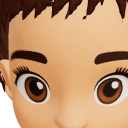
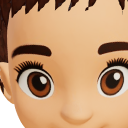
3D-forsøg: vifte af vipper og større iris i store øjne
Vipper: tolv vipper langs hele låget, fra næsen ud til hjørnet. Store: iris fylder op til den sorte streg og ned til den nederste kant, og det hvide omkring er rent.

diff --git a/3d-forsoeg/index.html b/3d-forsoeg/index.html
@@ -313,7 +313,7 @@ function drawBrows(o) {
 // themselves, the skin round it stretched to meet; Glade and Blink: the eye painted over in the skin and a shut lid
 // drawn - an arch up, or for Blink one eye's lid down; Vipper: three lashes at each eye's outer corner; Stjerner,
 // Hjerter: the iris a star or a heart, in the eye colour, on white)
-const EYES = [['oejne-naturlige', 'Naturlige'], ['oejne-store', 'Store', { big: 1.25 }], ['oejne-glad', 'Glade', { shut: 'up' }],
+const EYES = [['oejne-naturlige', 'Naturlige'], ['oejne-store', 'Store', { big: 1.25, iris2: 1.2 }], ['oejne-glad', 'Glade', { shut: 'up' }],
   ['oejne-blink', 'Blink', { shut: 'down', one: true }], ['oejne-vipper', 'Vipper', { lashes: true }],
   ['oejne-stjerne', 'Stjerner', { iris: 'star' }], ['oejne-hjerte', 'Hjerter', { iris: 'heart' }]];
 let eyesNow = 'oejne-naturlige';
@@ -378,45 +378,50 @@ function drawEyes(o) {
   // (the distance from a point to a stroke from a to b, and how far along it)
   const seg = (x, y, ax, ay, bx, by) => { const vx = bx - ax, vy = by - ay, t = Math.max(0, Math.min(1, ((x - ax) * vx + (y - ay) * vy) / (vx * vx + vy * vy))); return [Math.hypot(x - ax - t * vx, y - ay - t * vy), t]; };
   let copy = null; if (opts.big) { copy = new Uint8ClampedArray(T.length / 2); for (let j = 0; j < T.length; j += 6) copy.set(o.subarray(T[j] * 4, T[j] * 4 + 3), j / 2); }
+  // (the eye as it was, at a spot seen from the front: the four squares round it blended by how near it is to each -
+  // taken from one alone, its edges were jagged. Sharp: each square sorted as dark, the eye's white or the rest (skin,
+  // iris), and where two kinds meet the one with more weight wins, with a narrow soft edge - blown up, the soft outline
+  // was ragged)
+  const sample = (E, sx, sy, sharp) => {
+    const fx = (sx - E.gx) / E.cell - .5, fy = (sy - E.gy) / E.cell - .5, gx = Math.floor(fx), gy = Math.floor(fy), c = [0, 0, 0], cs = [[0, 0, 0], [0, 0, 0], [0, 0, 0]], ws = [0, 0, 0];
+    let wt = 0;
+    for (const [ax, ay] of [[0, 0], [1, 0], [0, 1], [1, 1]]) { const X2 = gx + ax, Y2 = gy + ay; if (X2 < 0 || Y2 < 0 || X2 >= E.gw || Y2 >= E.gh) continue;
+      const z = E.grid[Y2 * E.gw + X2]; if (z < 0) continue; const wq = (ax ? fx - gx : 1 - fx + gx) * (ay ? fy - gy : 1 - fy + gy), q = copy.subarray(z * 3, z * 3 + 3);
+      const kind = .3 * q[0] + .59 * q[1] + .11 * q[2] < 110 ? 0 : Math.min(q[0], q[1], q[2]) > 195 ? 1 : 2;
+      for (let m = 0; m < 3; m++) { c[m] += q[m] * wq; cs[kind][m] += q[m] * wq; } wt += wq; ws[kind] += wq; }
+    if (!(wt > 0)) return null; const kinds = [0, 1, 2].filter(k => ws[k] > 0), out = [0, 0, 0];
+    if (sharp && kinds.length === 2) { const [k1, k2] = kinds, a = Math.max(0, Math.min(1, (ws[k1] / wt - .5) / .12 + .5));
+      for (let m = 0; m < 3; m++) out[m] = cs[k1][m] / ws[k1] * a + cs[k2][m] / ws[k2] * (1 - a); }
+    else for (let m = 0; m < 3; m++) out[m] = c[m] / wt;
+    return { r: out[0] / 255, g: out[1] / 255, b: out[2] / 255 }; };
   for (let j = 0; j < T.length; j += 6) { const p = T[j], X = T[j + 1], Y = T[j + 2], E = S.eyes[T[j + 3]], k = T[j + 4], open = T[j + 5], i = p * 4;
     const dx = X - E.cx, dy = Y - E.cy, u = Math.min(1, Math.abs(dx) / E.ew);
     if (opts.big) { const rr = Math.hypot(dx / E.ew, dy / E.eh); if (!rr || rr > 1.7) continue;
       // (inside, everything a quarter bigger; from 1.375 out to 1.7 squeezed back, so it meets the face round it)
       const f = rr < 1.375 ? rr / opts.big : 1.1 + (rr - 1.375) * .6 / .325, sx = E.cx + dx * f / rr, sy = E.cy + dy * f / rr;
-      // (the four squares round that spot, blended by how near it is to each: taken from one alone, its edges were jagged)
-      // (outside the iris's middle - the iris's dark ring and the eye's black outline against the white and the skin - each
-      // square sorted as dark or light and the two blended sharply, at half and half: blown up, those edges were ragged)
-      // (sorted three ways - dark, the eye's white, and the rest: the skin, the iris - so the white's edge against the
-      // skin is sharp too)
-      const fx = (sx - E.gx) / E.cell - .5, fy = (sy - E.gy) / E.cell - .5, gx = Math.floor(fx), gy = Math.floor(fy), c = [0, 0, 0], cs = [[0, 0, 0], [0, 0, 0], [0, 0, 0]], ws = [0, 0, 0];
-      let wt = 0; const rim = Math.hypot(sx - E.ix, sy - E.iy) > .8 * E.r;
-      for (const [ax, ay] of [[0, 0], [1, 0], [0, 1], [1, 1]]) { const X2 = gx + ax, Y2 = gy + ay; if (X2 < 0 || Y2 < 0 || X2 >= E.gw || Y2 >= E.gh) continue;
-        const z = E.grid[Y2 * E.gw + X2]; if (z < 0) continue; const wq = (ax ? fx - gx : 1 - fx + gx) * (ay ? fy - gy : 1 - fy + gy), q = copy.subarray(z * 3, z * 3 + 3);
-        const kind = .3 * q[0] + .59 * q[1] + .11 * q[2] < 110 ? 0 : Math.min(q[0], q[1], q[2]) > 195 ? 1 : 2;
-        for (let m = 0; m < 3; m++) { c[m] += q[m] * wq; cs[kind][m] += q[m] * wq; } wt += wq; ws[kind] += wq; }
-      if (!(wt > 0)) continue;
-      // (where two kinds meet, the one with more of the four's weight wins, with a narrow soft edge between)
-      const kinds = [0, 1, 2].filter(k => ws[k] > 0);
-      if (rim && kinds.length === 2) { const [k1, k2] = kinds, a = Math.max(0, Math.min(1, (ws[k1] / wt - .5) / .12 + .5));
-        for (let m = 0; m < 3; m++) o[i + m] = cs[k1][m] / ws[k1] * a + cs[k2][m] / ws[k2] * (1 - a); }
-      else for (let m = 0; m < 3; m++) o[i + m] = c[m] / wt;
-      // (the iris's dark ring is ragged in the picture itself, which a bigger eye showed: drawn anew as a clean circle, and
-      // the white round it - inside the eye's opening, clear of its outline - made plain white)
-      const ds = Math.hypot(sx - E.ix, sy - E.iy) / E.R, re = Math.hypot((sx - E.cx) / E.ew, (sy - E.cy) / E.eh), sm = v => Math.max(0, Math.min(1, v / .03 + .5));
-      if (re < 1 && ds > .75 && ds < 1.6) { const irisC = tex.colours[PARTS.eyes] || E.colour, ringC = { r: dark.r * .7 + irisC.r * .3, g: dark.g * .7 + irisC.g * .3, b: dark.b * .7 + irisC.b * .3 };
-        put(i, ringC, 1, sm(ds - .86) * sm(1 - ds)); put(i, E.white, 1, sm(ds - 1) * sm(.9 - re) * sm(1.5 - ds)); }
+      const got = sample(E, sx, sy, Math.hypot(sx - E.ix, sy - E.iy) > .8 * E.r); if (!got) continue; o[i] = got.r * 255; o[i + 1] = got.g * 255; o[i + 2] = got.b * 255;
+      // (inside the eye's opening, clear of its outline: the iris a fifth bigger again - up to the white's black line above
+      // it - taken from the iris itself, its dark ring drawn anew as a clean circle - in the picture it is ragged, which a
+      // bigger eye showed - and the white round it made plain white, no flecks left)
+      const re = Math.hypot((sx - E.cx) / E.ew, (sy - E.cy) / E.eh), sm = v => Math.max(0, Math.min(1, v / .03 + .5));
+      if (re < 1.02) { const g = opts.big * opts.iris2, icx = E.cx + (E.ix - E.cx) * opts.big, icy = E.cy + (E.iy - E.cy) * opts.big, dI = Math.hypot(X - icx, Y - icy) / (E.R * g);
+        const keep = sm(.99 - re); if (dI < 1.6 && keep > 0) {
+          if (dI < 1.05) { const c = sample(E, E.ix + (X - icx) / g, E.iy + (Y - icy) / g, false); if (c) put(i, c, 1, keep * sm(1 - dI)); }
+          const irisC = tex.colours[PARTS.eyes] || E.colour, ringC = { r: dark.r * .7 + irisC.r * .3, g: dark.g * .7 + irisC.g * .3, b: dark.b * .7 + irisC.b * .3 };
+          put(i, ringC, 1, keep * sm(dI - .88) * sm(1 - dI)); put(i, E.white, 1, keep * sm(dI - 1) * sm(1.6 - dI)); } }
       continue; }
     if (opts.shut && (!opts.one || E.side > 0)) {
       const rr = Math.hypot(dx / (E.ew * 1.2), dy / (E.eh * 1.45)); if (rr < 1.25) put(i, skin, k, Math.min(1, (1.25 - rr) / .2));
       const yc = opts.shut === 'up' ? -.3 * E.eh + .75 * E.eh * (1 - u * u) : .1 * E.eh - .55 * E.eh * (1 - u * u);
       put(i, dark, 1, cov(.024 * (1 - .4 * u * u) - Math.hypot(dy - yc, Math.max(0, Math.abs(dx) - E.ew)))); continue; }
-    // (proper lashes: seven from the upper lid's black line - well above the white's top there - curling outwards, longer
-    // and more sideways towards the outer corner, thick at the root; and the lid's line drawn bolder over its outer half)
+    // (proper lashes: twelve along the upper lid's black line - well above the white's top there - fanning out from the
+    // middle: short and leaning in towards the nose, longer and more sideways towards the outer corner, curling, thick at
+    // the root; and the lid's line drawn bolder along them)
     if (opts.lashes) { const sg = Math.sign(E.cx), lidAt = f => { const b = Math.min(23, Math.max(0, Math.floor((sg * f + 1) / 2 * 24)));
         return Math.max(E.top[b], E.top[Math.max(0, b - 1)], E.top[Math.min(23, b + 1)]); };
-      const f = sg * dx / E.ew; if (f > -.2 && f < 1.02) { const l = lidAt(f); if (l > -1) put(i, dark, 1, Math.min(1, (f + .2) / .4) * cov(.012 + .01 * Math.max(0, f) - Math.abs(Y - l - .03))); }
-      for (const g of [.15, .32, .48, .62, .75, .86, .96]) { const l = lidAt(g); if (l < -1) continue;
-        const bx = E.cx + sg * g * E.ew, by = l + .04, len = .06 + .06 * g, a1 = .05 + .9 * g, a2 = a1 + .45;
+      const f = sg * dx / E.ew; if (f > -.55 && f < 1.02) { const l = lidAt(f); if (l > -1) put(i, dark, 1, Math.min(1, (f + .55) / .3) * cov(.012 + .01 * Math.max(0, f) - Math.abs(Y - l - .03))); }
+      for (let n = 0; n < 12; n++) { const g = -.45 + 1.43 * n / 11, l = lidAt(g); if (l < -1) continue;
+        const bx = E.cx + sg * g * E.ew, by = l + .04, len = .05 + .07 * (g + .45) / 1.43, a1 = .05 + .9 * g, a2 = a1 + .4 * Math.sign(a1 || 1);
         const mx = bx + sg * Math.sin(a1) * len * .55, my = by + Math.cos(a1) * len * .55, tx = mx + sg * Math.sin(a2) * len * .45, ty = my + Math.cos(a2) * len * .45;
         const [d1, t1] = seg(X, Y, bx, by, mx, my), [d2, t2] = seg(X, Y, mx, my, tx, ty);
         put(i, dark, 1, cov(Math.max(.016 * (1 - .4 * t1) - d1, .0096 * (1 - .75 * t2) - d2))); } }
